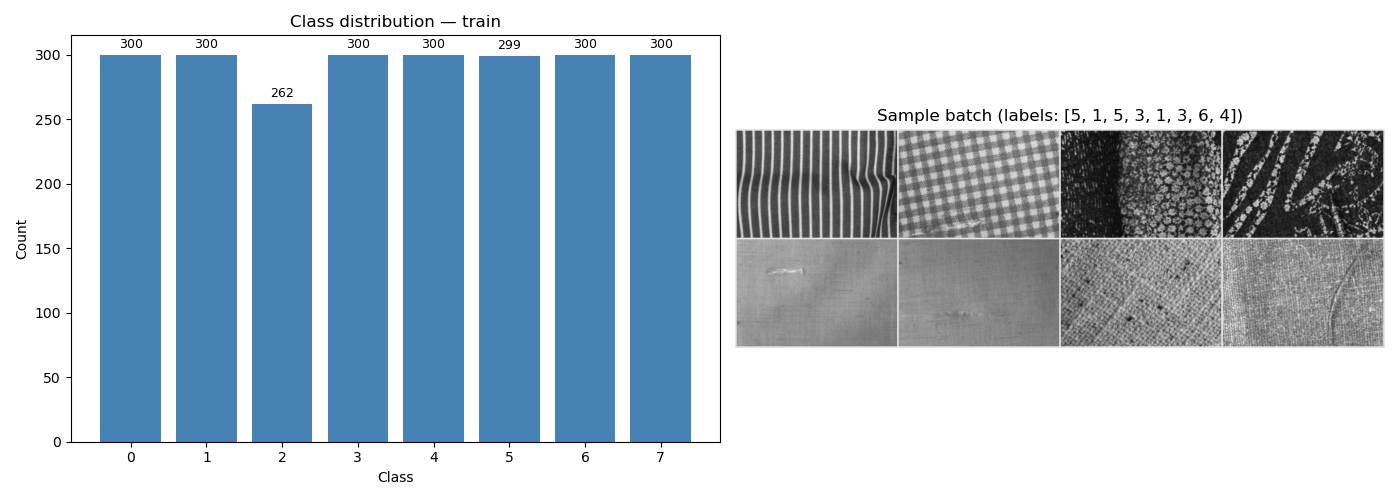
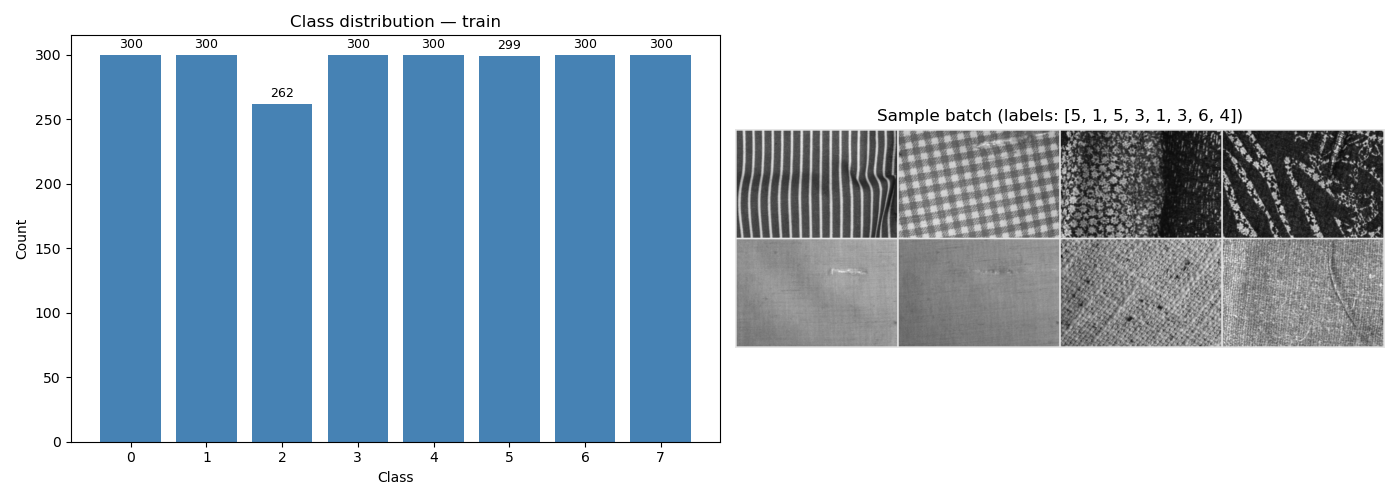
implement more resolution and run on cuda

Changed region(s): [[0.645, 0.24, 1.0, 0.69], [0.5221, 0.48, 0.7064, 0.69]]

diff --git a/main.py b/main.py
@@ -191,3 +191,47 @@ log_experiment(
     temps=history_cosine["elapsed"],
     garde="oui" if history_cosine["best_val_acc"] > 0.6406 else "non",
 )
+
+# ── Session 4 — Levier : résolution 512×384 ───────────────────────────────────
+
+# %% ----------------------------------
+# Champion courant : resnet18_cosine_fold0, val_acc=0.8330
+# Levier testé : résolution 384×256 → 512×384 (img_h=384, img_w=512), levier seul
+# Hypothèse : + de signal pour les défauts fins (peluches, fils, petits trous).
+# batch_size=32 conservé (= champion cosine) → un seul levier propre (résolution).
+# Fallback batch_size=16 si OOM (4 Go VRAM, ~2.7-3.0 Go attendus à batch 32).
+CHAMPION_VAL_ACC = 0.8330
+
+cfg_hires = Config(img_h=384, img_w=512, batch_size=32, epochs=100, lr=1e-3, weight_decay=1e-4)
+set_seed(cfg_hires.seed)
+train_loader, val_loader = build_dataloaders(fold=0, cfg=cfg_hires, folds_df=folds_df)
+
+resnet_hires = build_resnet_scratch(
+    depth=18, in_channels=cfg_hires.in_channels, num_classes=cfg_hires.num_classes
+).to(device)
+
+history_hires = fit(
+    resnet_hires, train_loader, val_loader, cfg_hires, device,
+    run_name="resnet18_hires_fold0",
+    patience=20,
+    label_smoothing=0.1,
+    use_cosine=True,
+)
+
+# %% ----------------------------------
+plot_history(history_hires, save_path="resnet18_hires_curves.png")
+
+# %% ----------------------------------
+print(f"Champion cosine val_acc : {CHAMPION_VAL_ACC:.4f}")
+print(f"Hi-res 512×384  val_acc : {history_hires['best_val_acc']:.4f}")
+print(f"Delta : {history_hires['best_val_acc'] - CHAMPION_VAL_ACC:+.4f}")
+
+log_experiment(
+    run_id="resnet18_hires_fold0",
+    base_champion="resnet18_cosine_fold0",
+    levier="résolution 512×384 (img_h=384, img_w=512)",
+    cv_acc_mean=history_hires["best_val_acc"],
+    cv_acc_std=0.0,
+    temps=history_hires["elapsed"],
+    garde="oui" if history_hires["best_val_acc"] > CHAMPION_VAL_ACC else "non",
+)

diff --git a/journal.md b/journal.md
@@ -20,8 +20,8 @@ augmentation = flips H/V uniquement, optimiseur AdamW, seed 42, from scratch (tr
 |---|-----|--------|--------------|------------------|----------|
 | 1 | `lenet_fold0` | LeNet | baseline | **0.3975** | référence |
 | 2 | `resnet18_fold0` | ResNet-18 from scratch | archi profonde + label_smoothing 0.1 | **0.6406** | gardé (ex-champion) |
-| 3 | `resnet18_cosine_fold0` | ResNet-18 | CosineAnnealingLR + 100 epochs | **0.8330** (ep 83, run→100) | **GARDÉ — champion** |
-| 4 | `resnet18_hires_fold0` _(prévu)_ | ResNet-18 | résolution 512×384 (levier seul) | — | à lancer |
+| 3 | `resnet18_cosine_fold0` | ResNet-18 | CosineAnnealingLR + 100 epochs | **0.8330** (ep 83, run→100) | gardé (ex-champion) |
+| 4 | `resnet18_hires_fold0` | ResNet-18 | résolution 512×384 (levier seul) | **0.8774** (ep 99, run→100) | **GARDÉ — champion** |
 
 ---
 
@@ -74,27 +74,46 @@ augmentation = flips H/V uniquement, optimiseur AdamW, seed 42, from scratch (tr
 - ⚠️ _À faire_ : confirmer ce champion en **CV 5-fold** avant de le figer ; logguer la ligne dans
   `experiments.csv`.
 
-## 4 — Résolution 512×384 (`resnet18_hires_fold0`) — PRÉVU
+## 4 — Résolution 512×384 (`resnet18_hires_fold0`) — nouveau champion
 
 - **But** : ajouter du **signal** pour les défauts fins (peluches, fils, petits trous) en montant la
   résolution. Levier **propre et attribuable** (un seul changement vs le champion cosine), choisi à
   la place de ResNet-34 (cf. run #3 : profondeur écartée pour ne pas aggraver l'overfitting).
-- **Setup prévu** : ResNet-18, `Config(img_h=384, img_w=512, epochs=100)`, cosine, label_smoothing=0.1,
-  base = champion `resnet18_cosine_fold0`. `batch_size` à baisser (16/8) si mémoire MPS limitée.
-- **Résultat** : _à venir._
+- **Setup** : ResNet-18, `Config(img_h=384, img_w=512, batch_size=32, epochs=100)`, cosine,
+  label_smoothing=0.1, patience=20, base = champion `resnet18_cosine_fold0`. batch_size=32 conservé
+  (= champion) ⇒ **levier unique = résolution**. Tient en VRAM sur RTX 500 Ada 4 Go (~2.7-3 Go).
+- **Résultat** : **best val_acc = 0.8774** (epoch 99 ; run→100), temps ≈ 2061 s. Comparaison :
+  - vs champion cosine 256×384 (0.8330) → **+0.0444**.
+- **Lecture / diagnostic (inversion du régime vs run #3)** :
+  - **train ≈ val sur TOUT l'entraînement** (ep 100 : train 0.885 / val 0.848 ; ep 99 : 0.877/0.877) :
+    l'écart reste ~0.01-0.04, là où le run #3 à 256×384 ouvrait +0.10 dès l'ep 80. → **l'overfitting
+    léger observé au run #3 a DISPARU** à plus haute résolution.
+  - **val_loss encore en baisse à l'ep 99** (0.8517, son minimum) et lr déjà au plancher (1e-5) :
+    le modèle est **légèrement sous-entraîné**, pas convergé — il reste de la marge.
+  - Interprétation : monter la résolution n'a pas seulement ajouté du signal, ça a **rendu la tâche
+    plus « riche » par image** → effet régularisant, le modèle ne mémorise plus aussi vite.
+- **Conséquence stratégique (révisée ENCORE)** : l'overfitting n'étant plus le facteur limitant à
+  cette résolution, la crainte du run #3 (« ne pas augmenter la capacité ») se relâche :
+  **la profondeur (ResNet-34) ou un T_max/epochs plus long redeviennent des leviers crédibles**, car
+  on a de la marge avant de mémoriser. La régularisation lourde passe en réserve.
+- **Décision** : **GARDÉ → nouveau champion** (val_acc 0.8774). Checkpoint :
+  `checkpoints/resnet18_hires_fold0.pt`.
+- ⚠️ _À faire_ : comme le run #3, ce champion n'est validé que sur **fold 0** → à confirmer en
+  **CV 5-fold** avant de le figer. Ligne loggée dans `experiments.csv` (✓).
 
 ---
 
 ## Leviers restants (backlog Session 4, ordre ROI revu après diagnostic du run #3)
 
-> Régime constaté : sous-apprentissage en début, **overfitting léger en fin** → la résolution
-> (ajout de signal) prime ; la **profondeur est écartée** ; la régularisation reste en réserve si
-> l'écart train/val grandit.
+> Régime constaté **après run #4** : à 512×384, train ≈ val sur tout l'entraînement et val_loss
+> encore en baisse à l'ep 99 → **plus d'overfitting, léger sous-apprentissage**. La résolution a eu
+> un effet régularisant ⇒ on a de la **marge en capacité/durée** → la profondeur et l'allongement
+> redeviennent crédibles ; la régularisation lourde repasse en réserve.
 
-1. ~~Cosine LR scheduler~~ ✅ **gardé (run #3, champion)**
-2. **Résolution 512×384** _(run #4, prévu)_ — ajoute du signal, attribuable ⬆️
-3. EMA des poids (quasi gratuit) ⬆️
-4. Flip-TTA à l'inférence (testable sur champion déjà entraîné) ⬆️
-5. Label smoothing — balayage 0.0 / 0.1 / 0.2 (comparer sur **val_acc**, pas val_loss)
-6. Régularisation (weight decay / dropout / DropBlock) — réactivée **si** l'overfitting s'aggrave
-7. ❌ Profondeur (ResNet-34) — écartée pour l'instant (overfitting déjà naissant)
+1. ~~Cosine LR scheduler~~ ✅ **gardé (run #3)**
+2. ~~Résolution 512×384~~ ✅ **gardé (run #4, champion, 0.8774)**
+3. **Profondeur (ResNet-34) ou epochs/T_max plus long** ⬆️ — réhabilité : marge avant overfit à 512×384
+4. EMA des poids (quasi gratuit) ⬆️
+5. Flip-TTA à l'inférence (testable sur champion déjà entraîné) ⬆️
+6. Label smoothing — balayage 0.0 / 0.1 / 0.2 (comparer sur **val_acc**, pas val_loss)
+7. Régularisation (weight decay / dropout / DropBlock) — en réserve, réactivée **si** l'écart train/val réapparaît